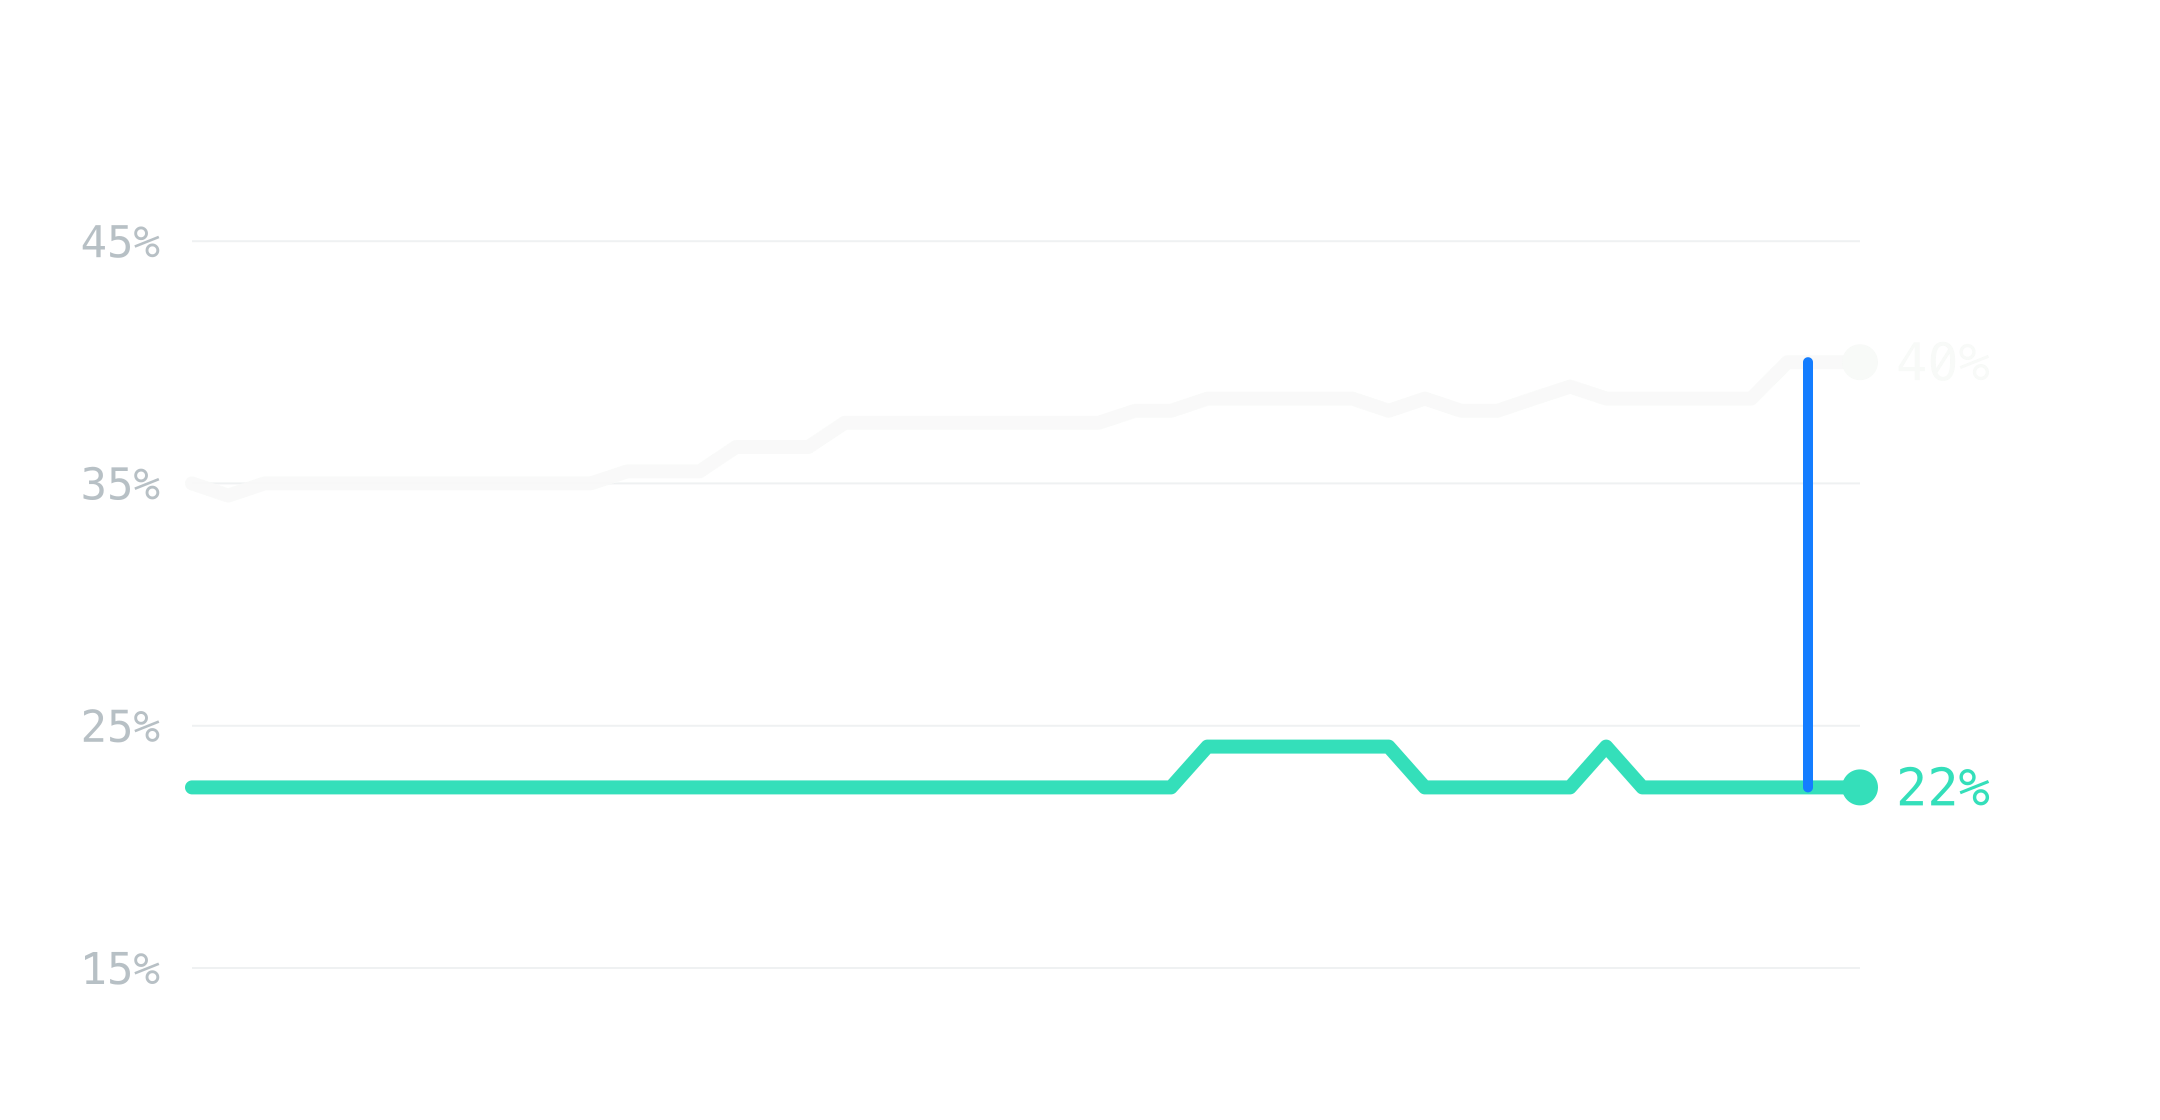
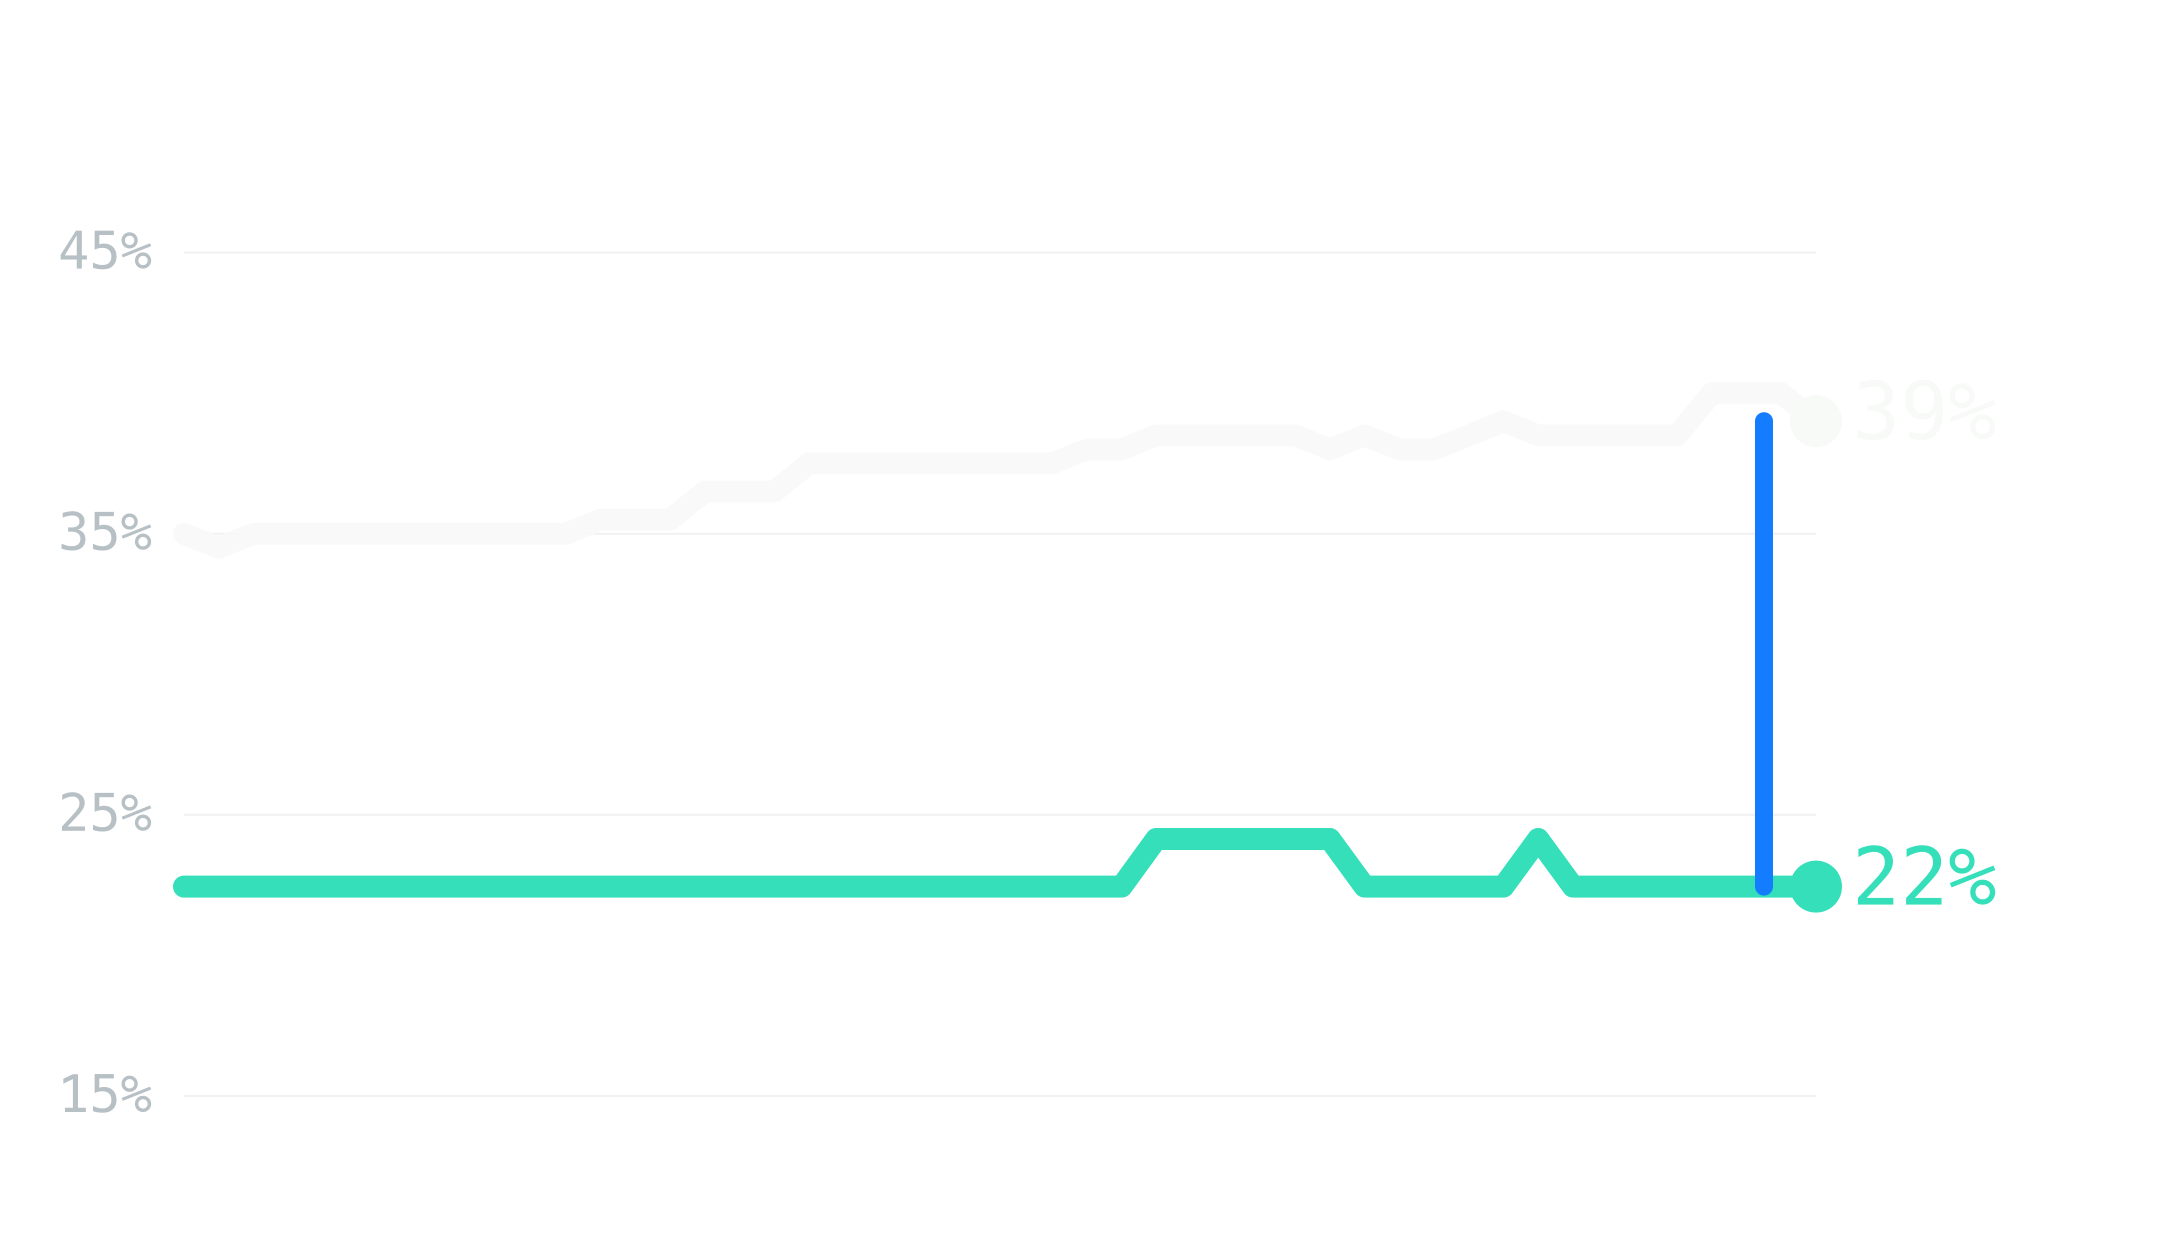
explainer: heavier chart, content centred in TikTok's readable band, larger cover

diff --git a/media-engine/src/explainer/explainer.jsx b/media-engine/src/explainer/explainer.jsx
@@ -53,7 +53,7 @@ export default async ({ project }) => {
     { property: 'offsetY', from: dy, to: 0, duration: 0.5, easing: 'house' },
   ];
 
-  const CHART_W = 920, CHART_H = Math.round((CHART_W * 560) / 1080);
+  const CHART_W = 1000, CHART_H = Math.round((CHART_W * 620) / 1080);
 
   const nodes = [
     // A single field for the whole clip. No photograph: this is the house's own surface, and a
@@ -65,53 +65,53 @@ export default async ({ project }) => {
     // ── Beat 0: the cover ───────────────────────────────────────────────────────────────────────
     // Held longer than a normal beat because it is also the thumbnail. The bull settles rather than
     // bounces: a pinned cover that jitters looks cheap on a second viewing.
-    <group name="coverbull" x={(W - 300) / 2} y={470} width={300} height={300} origin="center"
+    <group name="coverbull" x={(W - 360) / 2} y={430} width={360} height={360} origin="center"
       {...beat(0.15, B1)}
       animate={[
         { property: 'scale', keyframes: [{ at: 0, value: 0.86 }, { at: 0.55, value: 1.02, easing: 'house' }, { at: 0.85, value: 1 }] },
         { property: 'opacity', keyframes: [{ at: 0, value: 0 }, { at: 0.4, value: 1 }, { at: B1 - 0.15 - 0.02, value: 0 }] },
       ]}>
-      <media file={bull} x={0} y={0} width={300} fit="width" />
+      <media file={bull} x={0} y={0} width={360} fit="width" />
     </group>,
-    <text x={M} y={840} width={CW} align="center" fontFamily="Inter" fontSize={78} fontWeight={700}
+    <text x={M} y={880} width={CW} align="center" fontFamily="Inter" fontSize={82} fontWeight={700}
       color={WHITE} lineHeight={1.1} {...beat(0.5, B1)} animate={riseFade(B1 - 0.5, 30)}>
       Precision Algorithms
     </text>,
-    <row x={(W - 560) / 2} y={968} width={560} padding={{ top: 16, bottom: 16, left: 26, right: 26 }}
+    <row x={(W - 600) / 2} y={1020} width={600} padding={{ top: 16, bottom: 16, left: 26, right: 26 }}
       radius={30} fill={MINT} justify="center" {...beat(0.9, B1)} animate={riseFade(B1 - 0.9, 20)}>
       <text fontFamily="JetBrains Mono" fontSize={25} fontWeight={500} letterSpacing={4} color={NAVY}>
         INDEPENDENT PROBABILITY RESEARCH
       </text>
     </row>,
-    <text x={M} y={1080} width={CW} align="center" fontFamily="Inter" fontSize={46} fontWeight={500}
+    <text x={M} y={1140} width={CW} align="center" fontFamily="Inter" fontSize={48} fontWeight={500}
       color={MUTE} lineHeight={1.35} {...beat(1.25, B1)} animate={riseFade(B1 - 1.25, 24)}>
       {'The board has a price.\nWe run our own number.'}
     </text>,
 
     // ── Beat 1: what a prediction market is ─────────────────────────────────────────────────────
-    <text x={M} y={640} width={CW} align="center" fontFamily="Inter" fontSize={58} fontWeight={700}
+    <text x={M} y={700} width={CW} align="center" fontFamily="Inter" fontSize={58} fontWeight={700}
       color={WHITE} lineHeight={1.2} {...beat(B1, B2)} animate={riseFade(B2 - B1, 28)}>
       {'Prediction markets put a price\non what happens next'}
     </text>,
-    <text x={M} y={840} width={CW} align="center" fontFamily="Inter" fontSize={38} fontWeight={500}
+    <text x={M} y={900} width={CW} align="center" fontFamily="Inter" fontSize={38} fontWeight={500}
       color={MUTE} lineHeight={1.4} {...beat(B1 + 0.35, B2)} animate={riseFade(B2 - B1 - 0.35, 22)}>
       Traders move that price all day, on two of the venues we cover
     </text>,
-    <row x={(W - 720) / 2} y={1020} width={720} gap={64} justify="center" align="center"
+    <row x={(W - 720) / 2} y={1090} width={720} gap={64} justify="center" align="center"
       {...beat(B1 + 0.75, B2)} animate={riseFade(B2 - B1 - 0.75, 18)}>
       <media file={kalshi} width={260} fit="width" />
       <media file={poly} width={300} fit="width" />
     </row>,
 
     // ── Beat 2: the model, and the chart drawing itself ─────────────────────────────────────────
-    <text x={M} y={520} width={CW} align="center" fontFamily="Inter" fontSize={58} fontWeight={700}
+    <text x={M} y={600} width={CW} align="center" fontFamily="Inter" fontSize={58} fontWeight={700}
       color={WHITE} lineHeight={1.2} {...beat(B2, B3)} animate={riseFade(B3 - B2, 28)}>
       {'We score the same question\nwith our own model'}
     </text>,
     // The chart is revealed left to right by a mask, the same mechanism the banner uses to pencil in
     // its connector. Declared mask width starts at zero and animates to full: a mask declared at zero
     // width is refused, so the rectangle is declared at full size and the ANIMATED value starts at 0.
-    <group name="chart" x={(W - CHART_W) / 2} y={760} width={CHART_W} height={CHART_H}
+    <group name="chart" x={(W - CHART_W) / 2} y={830} width={CHART_W} height={CHART_H}
       mask={{ shape: 'rectangle', x: 0, y: 0, width: CHART_W, height: CHART_H }}
       {...beat(B2 + 0.3, B3)}
       animate={[
@@ -120,33 +120,33 @@ export default async ({ project }) => {
       ]}>
       <media file={chart} x={0} y={0} width={CHART_W} fit="width" />
     </group>,
-    <row x={(W - 660) / 2} y={1300} width={660} gap={44} justify="center" align="center"
+    <row x={(W - 660) / 2} y={1420} width={660} gap={44} justify="center" align="center"
       {...beat(B2 + 1.6, B3)} animate={riseFade(B3 - B2 - 1.6, 16)}>
       <text fontFamily="JetBrains Mono" fontSize={26} fontWeight={500} letterSpacing={3} color={WHITE}>THE BOARD</text>
       <text fontFamily="JetBrains Mono" fontSize={26} fontWeight={500} letterSpacing={3} color={MINT}>OUR MODEL</text>
     </row>,
 
     // ── Beat 3: reading the chart ───────────────────────────────────────────────────────────────
-    <text x={M} y={560} width={CW} align="center" fontFamily="Inter" fontSize={56} fontWeight={700}
+    <text x={M} y={640} width={CW} align="center" fontFamily="Inter" fontSize={56} fontWeight={700}
       color={WHITE} lineHeight={1.2} {...beat(B3, B4)} animate={riseFade(B4 - B3, 26)}>
       {'Over three days the board\nwalked five points'}
     </text>,
-    <text x={M} y={760} width={CW} align="center" fontFamily="Inter" fontSize={44} fontWeight={500}
+    <text x={M} y={840} width={CW} align="center" fontFamily="Inter" fontSize={44} fontWeight={500}
       color={MUTE} lineHeight={1.35} {...beat(B3 + 0.3, B4)} animate={riseFade(B4 - B3 - 0.3, 22)}>
       Our number did not move at all
     </text>,
-    <column name="gapcard" x={(W - 720) / 2} y={960} width={720} radius={28} fill={CARD}
-      padding={{ top: 34, bottom: 34, left: 36, right: 36 }} gap={18}
+    <column name="gapcard" x={(W - 760) / 2} y={1020} width={760} radius={30} fill={CARD}
+      padding={{ top: 36, bottom: 36, left: 38, right: 38 }} gap={18}
       {...beat(B3 + 0.7, B4)} animate={riseFade(B4 - B3 - 0.7, 26)}>
-      <row width={648} radius={18} fill={ROW} padding={{ top: 18, bottom: 18, left: 24, right: 24 }} justify="space-between" align="center">
+      <row width={684} radius={18} fill={ROW} padding={{ top: 18, bottom: 18, left: 24, right: 24 }} justify="space-between" align="center">
         <text fontFamily="JetBrains Mono" fontSize={24} fontWeight={500} letterSpacing={3} color={GREY}>POLYMARKET</text>
         <text fontFamily="JetBrains Mono" fontSize={56} fontWeight={500} color={WHITE}>40%</text>
       </row>
-      <row width={648} radius={18} fill={ROW} padding={{ top: 18, bottom: 18, left: 24, right: 24 }} justify="space-between" align="center">
+      <row width={684} radius={18} fill={ROW} padding={{ top: 18, bottom: 18, left: 24, right: 24 }} justify="space-between" align="center">
         <text fontFamily="JetBrains Mono" fontSize={24} fontWeight={500} letterSpacing={3} color={MINT}>PRECISION</text>
         <text fontFamily="JetBrains Mono" fontSize={56} fontWeight={500} color={MINT}>22%</text>
       </row>
-      <text width={648} align="center" fontFamily="Inter" fontSize={30} fontWeight={700} color={BLUE}>
+      <text width={684} align="center" fontFamily="Inter" fontSize={30} fontWeight={700} color={BLUE}>
         That distance is the Model Gap
       </text>
     </column>,
